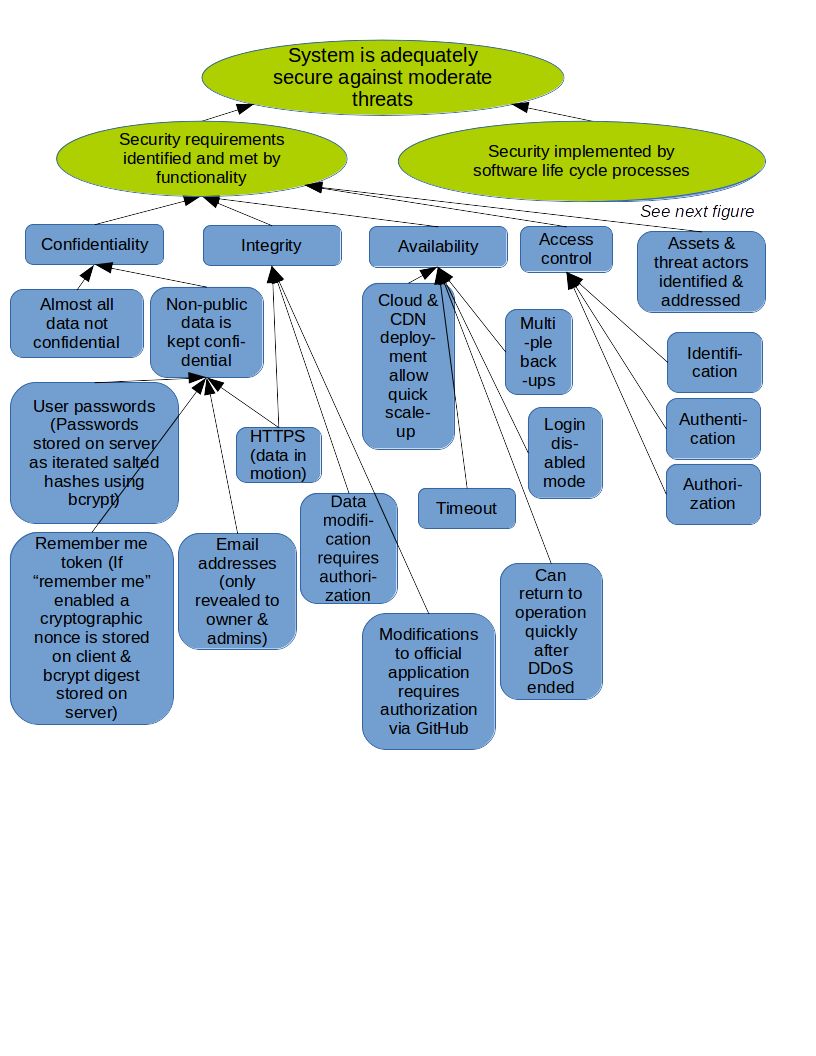
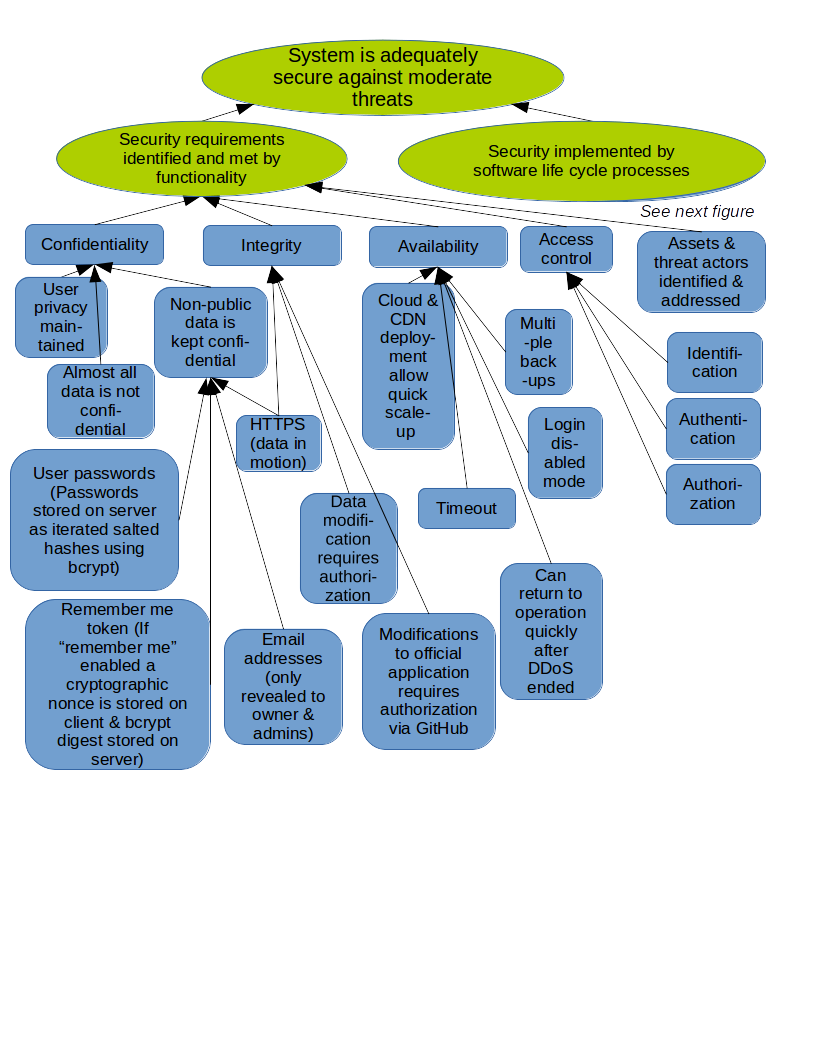
Document how we provide privacy in doc/security.md (#1285)
We have long emphasized user privacy.
Document in doc/security.md how we do that.

Changed region(s): [[0.0, 0.25, 0.4289, 0.75]]

diff --git a/doc/security.md b/doc/security.md
@@ -179,7 +179,86 @@ to bypass the mechanisms discussed below.
 
 ### Confidentiality
 
-#### Almost all data not confidential
+#### User privacy maintained
+
+One of our key requirements is to
+"protect users and their privacy".
+Here is a brief discussion on how we do that.
+
+First, the basics.
+We work hard to comply with the
+EU General Data Protection Regulation (GDPR), which has many requirements
+related to privacy.
+We have a separate document that details how we comply with the GDPR.
+As discussed later, non-public data is kept confidential
+both at rest and in motion
+(in particular, email addresses are protected).
+
+Part of our privacy requirement is that we
+"don't expose user activities to unrelated sites (including social media
+sites) without that user's consent";
+here is how we do that.
+
+We must first define what we mean by an unrelated site.
+A "related" site is a site that we are directly using to provide our service,
+in particular our cloud provider (Heroku which runs on
+Amazon's EC2 cloud-computing platform), CDN provider (Fastly),
+authorization services provider (GitHub), and logging / intrusion detection
+service.
+As a practical matter, related sites must (under various circumstances)
+receive some information about the user (at least that the user
+is trying to do something).
+In those cases we have selected partners we believe are trustworthy, and
+we have a direct relationship with them.
+
+However, there is no reason unrelated sites
+*must* see what our users are doing,
+so we take many steps to prevent unrelated sites from
+learning about our users' activities (and thus maintaining user privacy):
+
+* We directly serve all our assets ourselves,
+  including JavaScipt, images, and fonts.
+  Since we serve them ourselves, and never serve information via external
+  third parties,
+  external sites never receive any request from a user that might
+  impact that user's privacy.  This is enforced by our CSP policy.
+* We do not serve ads and do not currently plan to.
+  That said, if we did serve ads, we would also serve them from our site,
+  just like any other asset, to ensure that third parties did not receive
+  unauthorized information.
+* We do not use any web analytics service that uses tracking codes or
+  external assets.
+  We log and store logs using only services we control or have a direct
+  partnership with.
+* We do have links to social media sites (e.g., from the home page), but we
+  do this in a privacy-respecting manner.
+  It would be easy to use techniques like embedding images
+  from external (third party) social media sites,
+  but we intentionally do not do that, because that would expose to an
+  external unrelated site what our users are doing without their knowledge.
+  We instead use the approach described in
+  ["Responsible Social Share Links" by Jonathan Suh (March 26, 2015), specifically using share URLs](https://jonsuh.com/blog/social-share-links/#use-share-urls).
+  In this approach, if a user does not press the link,
+  the social media site never receives any information.
+  Instead, a social media site
+  *only* receives information when the user takes a direct action to
+  request it (e.g., a click), and that site only receives information from
+  the specific user who requested it.
+
+Of course, to access the Internet the user must use various services and
+computers, and some of those could be privacy-exposing.
+For example, the user must make a request to a DNS service to find our
+service, and user requests must transit multiple Internet routers.
+We cannot control what users choose to use; instead, we ensure that
+users can choose what services and computers they will trust.
+The BadgeApp does not filter out any particular source
+(other than temporary blocks if the source becomes a source of attack).
+Therefore, users who do not want their activities monitored
+could choose to use a network and computer they trust,
+a Virtual Private Network (VPN), or an anonymity network such as Tor
+to provide additional privacy when they interact with the BadgeApp.
+
+#### Almost all data is not confidential
 
 We try to store as little confidential information as we reasonably can,
 as this limits the impact of any confidentiality breach.
@@ -1812,7 +1891,7 @@ We use the gem `attr_encrypted` to encrypt email addresses, and
 gem `blind_index` to index encrypted email addresses.
 This approach builds on standard general-purpose approaches for
 encrypting data and indexing the data, e.g., see
-["How to Search on Securely Encrypted Database Fields" by By Scott Arciszewski](https://www.sitepoint.com/how-to-search-on-securely-encrypted-database-fields/).
+["How to Search on Securely Encrypted Database Fields" by Scott Arciszewski](https://www.sitepoint.com/how-to-search-on-securely-encrypted-database-fields/).
 The important aspect here is that we encrypt the data (so it cannot be
 revealed by those without the encryption key),
 and we also create cryptographic keyed hashes of the data (so
